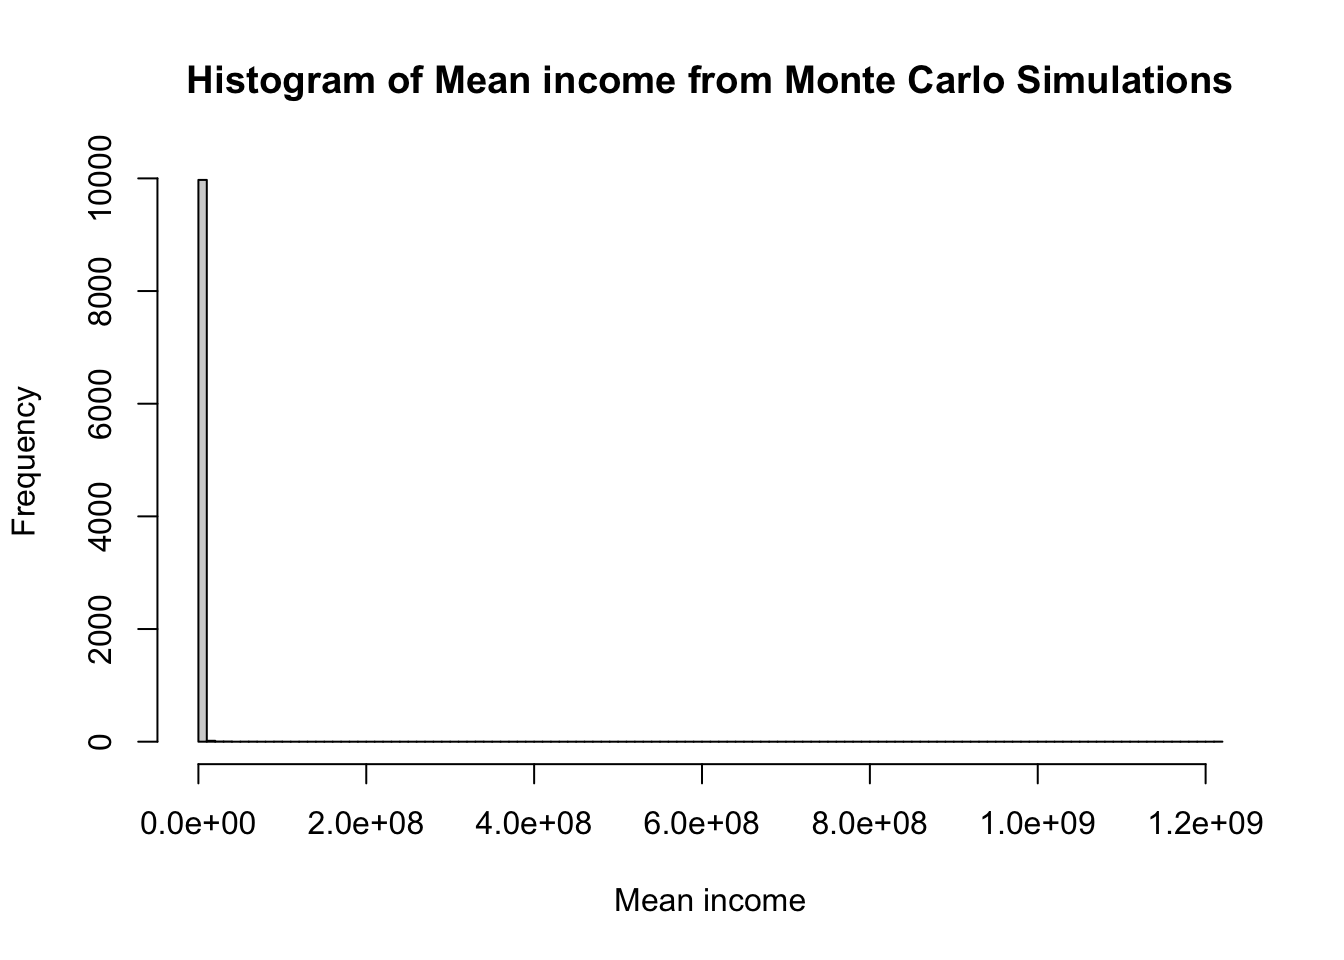
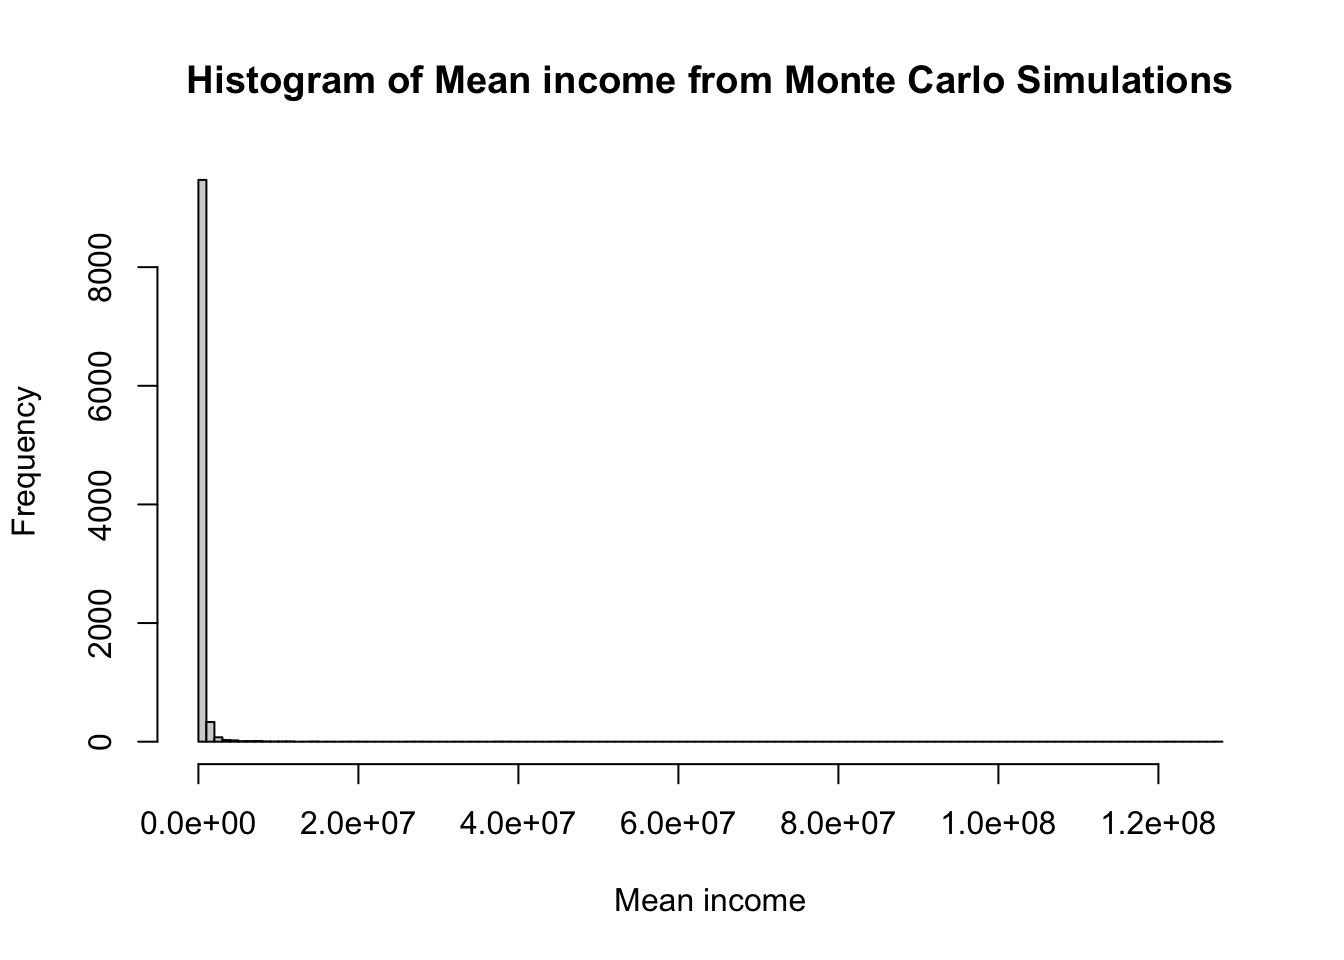
212241

diff --git a/Education technology/Presentation/skillpresent-speaker.html b/Education technology/Presentation/skillpresent-speaker.html
@@ -180,12 +180,7 @@
 </section>
 <section class="slide level2">
 
-<div class="quarto-figure quarto-figure-center">
-<figure>
 <p><img data-src="images/puzzle.png"></p>
-<figcaption>A generic image taken from google images</figcaption>
-</figure>
-</div>
 </section>
 <section id="requirements-for-the-solution" class="slide level2">
 <h2>Requirements for the solution</h2>
@@ -220,7 +215,6 @@
 <li><p>Intellectual or Cognitive skill</p></li>
 <li><p>Psychomotor or Procedural skill</p></li>
 <li><p>Communication skill</p></li>
-<li><p>Team skill</p></li>
 </ul>
 </section>
 <section id="intellectual-skills-needed-to-solve-the-puzzle" class="slide level2">
@@ -242,8 +236,8 @@
 <li><p><strong>Attention to Detail</strong></p></li>
 </ul>
 </section>
-<section id="teaching-reasoning" class="slide level2">
-<h2><strong>Teaching reasoning</strong></h2>
+<section id="how-to-teach-this" class="slide level2">
+<h2><strong>How to teach this?</strong></h2>
 <p>Key concept is to activate prior knowledge</p>
 <ul>
 <li><p>One minute preceptor (OMP)</p></li>
@@ -276,8 +270,13 @@
 <li><p><strong>P</strong>lan management</p></li>
 </ul>
 </section>
-<section id="teaching-psychomotor-skills" class="slide level2">
-<h2><strong>Teaching Psychomotor Skills</strong></h2>
+<section>
+<section id="solving-the-puzzle-physically" class="title-slide slide level1 center">
+<h1>Solving the puzzle physically</h1>
+
+</section>
+<section id="how-to-teach-this-1" class="slide level2">
+<h2><strong>How to teach this?</strong></h2>
 <h3 id="peytons-four-step-approach-cognitive-integrative-autonomous-phases"><strong>Peyton’s Four-Step Approach – Cognitive, Integrative, Autonomous Phases</strong></h3>
 <table class="caption-top">
 <thead>
@@ -308,7 +307,12 @@
 
 <aside><div>
 <p><a href="https://www.knotes.co.in/education%20technology/skill">Click here</a> for more information on Peyton’s technique</p>
-</div></aside></section>
+</div></aside></section></section>
+<section>
+<section id="if-the-puzzle-was-alive.." class="title-slide slide level1 center">
+<h1>If the puzzle was alive..</h1>
+
+</section>
 <section id="spikes-a-method-for-communication" class="slide level2">
 <h2><strong>SPIKES-A Method for communication</strong></h2>
 <ul>
@@ -320,8 +324,8 @@
 <li><p><strong>S</strong>trategy and Summary</p></li>
 </ul>
 </section>
-<section id="another-way-of-looking" class="slide level2">
-<h2>Another way of looking</h2>
+<section id="another-way-of-looking-at-skills" class="slide level2">
+<h2>Another way of looking at skills</h2>
 <table class="caption-top">
 <thead>
 <tr class="header">
@@ -392,7 +396,7 @@
 <p><a href="https://www.knotes.co.in">Back to knotes</a></p>
 
 
-</section>
+</section></section>
     </div>
   <div class="quarto-auto-generated-content" style="display: none;">
 <p><img src="images/tie-01.png" class="slide-logo"></p>

diff --git a/docs/Education technology/Presentation/skillpresent.html b/docs/Education technology/Presentation/skillpresent.html
@@ -180,12 +180,7 @@
 </section>
 <section class="slide level2">
 
-<div class="quarto-figure quarto-figure-center">
-<figure>
 <p><img data-src="images/puzzle.png"></p>
-<figcaption>A generic image taken from google images</figcaption>
-</figure>
-</div>
 </section>
 <section id="requirements-for-the-solution" class="slide level2">
 <h2>Requirements for the solution</h2>
@@ -220,7 +215,6 @@
 <li><p>Intellectual or Cognitive skill</p></li>
 <li><p>Psychomotor or Procedural skill</p></li>
 <li><p>Communication skill</p></li>
-<li><p>Team skill</p></li>
 </ul>
 </section>
 <section id="intellectual-skills-needed-to-solve-the-puzzle" class="slide level2">
@@ -242,8 +236,8 @@
 <li><p><strong>Attention to Detail</strong></p></li>
 </ul>
 </section>
-<section id="teaching-reasoning" class="slide level2">
-<h2><strong>Teaching reasoning</strong></h2>
+<section id="how-to-teach-this" class="slide level2">
+<h2><strong>How to teach this?</strong></h2>
 <p>Key concept is to activate prior knowledge</p>
 <ul>
 <li><p>One minute preceptor (OMP)</p></li>
@@ -276,8 +270,13 @@
 <li><p><strong>P</strong>lan management</p></li>
 </ul>
 </section>
-<section id="teaching-psychomotor-skills" class="slide level2">
-<h2><strong>Teaching Psychomotor Skills</strong></h2>
+<section>
+<section id="solving-the-puzzle-physically" class="title-slide slide level1 center">
+<h1>Solving the puzzle physically</h1>
+
+</section>
+<section id="how-to-teach-this-1" class="slide level2">
+<h2><strong>How to teach this?</strong></h2>
 <h3 id="peytons-four-step-approach-cognitive-integrative-autonomous-phases"><strong>Peyton’s Four-Step Approach – Cognitive, Integrative, Autonomous Phases</strong></h3>
 <table class="caption-top">
 <thead>
@@ -308,7 +307,12 @@
 
 <aside><div>
 <p><a href="https://www.knotes.co.in/education%20technology/skill">Click here</a> for more information on Peyton’s technique</p>
-</div></aside></section>
+</div></aside></section></section>
+<section>
+<section id="if-the-puzzle-was-alive.." class="title-slide slide level1 center">
+<h1>If the puzzle was alive..</h1>
+
+</section>
 <section id="spikes-a-method-for-communication" class="slide level2">
 <h2><strong>SPIKES-A Method for communication</strong></h2>
 <ul>
@@ -320,8 +324,8 @@
 <li><p><strong>S</strong>trategy and Summary</p></li>
 </ul>
 </section>
-<section id="another-way-of-looking" class="slide level2">
-<h2>Another way of looking</h2>
+<section id="another-way-of-looking-at-skills" class="slide level2">
+<h2>Another way of looking at skills</h2>
 <table class="caption-top">
 <thead>
 <tr class="header">
@@ -392,7 +396,7 @@
 <p><a href="https://www.knotes.co.in">Back to knotes</a></p>
 
 
-</section>
+</section></section>
     </div>
   <div class="quarto-auto-generated-content" style="display: none;">
 <p><img src="images/tie-01.png" class="slide-logo"></p>

diff --git a/docs/posts/montecarlo.html b/docs/posts/montecarlo.html
@@ -6,7 +6,7 @@
 
 <meta name="viewport" content="width=device-width, initial-scale=1.0, user-scalable=yes">
 
-<meta name="dcterms.date" content="2024-11-28">
+<meta name="dcterms.date" content="2024-12-02">
 
 <title>Income distribution – knotes</title>
 <style>
@@ -1839,7 +1839,7 @@ window.Quarto = {
     <div>
     <div class="quarto-title-meta-heading">Published</div>
     <div class="quarto-title-meta-contents">
-      <p class="date">November 28, 2024</p>
+      <p class="date">December 2, 2024</p>
     </div>
   </div>
   
@@ -1977,7 +1977,7 @@ Income distribution is not normal
 </details>
 <div class="cell-output cell-output-stdout">
 <pre><code>     Min.   1st Qu.    Median      Mean   3rd Qu.      Max. 
-2.008e+05 2.957e+05 3.444e+05 6.853e+05 4.395e+05 1.219e+09 </code></pre>
+   207169    297140    344171    583327    443406 127869801 </code></pre>
 </div>
 <details open="" class="code-fold">
 <summary>Code</summary>
@@ -1985,7 +1985,7 @@ Income distribution is not normal
 </details>
 <div class="cell-output cell-output-stdout">
 <pre><code>   Min. 1st Qu.  Median    Mean 3rd Qu.    Max. 
-  61817   64071   64492   64505   64941   67445 </code></pre>
+  62019   64069   64502   64503   64928   67560 </code></pre>
 </div>
 <details open="" class="code-fold">
 <summary>Code</summary>
@@ -1993,7 +1993,7 @@ Income distribution is not normal
 </details>
 <div class="cell-output cell-output-stdout">
 <pre><code>     Min.   1st Qu.    Median      Mean   3rd Qu.      Max. 
-8.973e+05 3.318e+06 5.711e+06 3.922e+07 1.197e+07 1.219e+11 </code></pre>
+9.415e+05 3.369e+06 5.675e+06 2.880e+07 1.232e+07 1.276e+10 </code></pre>
 </div>
 </div>
 </section>

diff --git a/docs/posts.html b/docs/posts.html
@@ -1918,9 +1918,9 @@ Categories
 <span class="listing-categories">technology, ev</span>
 </td>
 </tr>
-<tr data-index="1" data-categories="TW9udGUlMjBDYXJsbyUyMHNpbXVsYXRpb24lMkNlY29ub21pY3M=" data-listing-date-sort="1732732200000" data-listing-file-modified-sort="1716203287606" data-listing-date-modified-sort="NaN" data-listing-reading-time-sort="8" data-listing-word-count-sort="1412" data-listing-title-sort="Income distribution" data-listing-filename-sort="montecarlo.qmd">
+<tr data-index="1" data-categories="TW9udGUlMjBDYXJsbyUyMHNpbXVsYXRpb24lMkNlY29ub21pY3M=" data-listing-date-sort="1733077800000" data-listing-file-modified-sort="1716203287606" data-listing-date-modified-sort="NaN" data-listing-reading-time-sort="8" data-listing-word-count-sort="1412" data-listing-title-sort="Income distribution" data-listing-filename-sort="montecarlo.qmd">
 <td>
-<span class="listing-date">Nov 28, 2024</span>
+<span class="listing-date">Dec 2, 2024</span>
 </td>
 <td>
 <a href="./posts/montecarlo.html" class="title listing-title">Income distribution</a>

diff --git a/docs/Catallactics/Personal/pricing.html b/docs/Catallactics/Personal/pricing.html
@@ -6,7 +6,7 @@
 
 <meta name="viewport" content="width=device-width, initial-scale=1.0, user-scalable=yes">
 
-<meta name="dcterms.date" content="2024-11-28">
+<meta name="dcterms.date" content="2024-12-02">
 
 <title>Hedge pricing – knotes</title>
 <style>
@@ -1795,7 +1795,7 @@ cookieconsent.run({
     <div>
     <div class="quarto-title-meta-heading">Published</div>
     <div class="quarto-title-meta-contents">
-      <p class="date">November 28, 2024</p>
+      <p class="date">December 2, 2024</p>
     </div>
   </div>
   
@@ -1841,7 +1841,7 @@ cookieconsent.run({
 <span id="cb2-3"><a href="#cb2-3" aria-hidden="true" tabindex="-1"></a>closing_price</span></code><button title="Copy to Clipboard" class="code-copy-button"><i class="bi"></i></button></pre></div>
 </details>
 <div class="cell-output cell-output-stdout">
-<pre><code>[1] 24274.9</code></pre>
+<pre><code>[1] 24131.1</code></pre>
 </div>
 </div>
 </section>

diff --git a/docs/Biomedical/Research Methodology/wrangling.html b/docs/Biomedical/Research Methodology/wrangling.html
@@ -3274,9 +3274,9 @@ Record
    &lt;int&gt; &lt;int&gt; &lt;fctr&gt;
 1:     1     0  child
 2:     2     0  child
-3:     3     1  child
-4:     4     1  child
-5:     5     0  child
+3:     3     0  child
+4:     4     0  child
+5:     5     1  child
 6:     6     1  child</code></pre>
 </div>
 </div>
@@ -3297,9 +3297,9 @@ Record
    &lt;int&gt; &lt;fctr&gt; &lt;fctr&gt;
 1:     1  child   &lt;NA&gt;
 2:     2  child   &lt;NA&gt;
-3:     3   &lt;NA&gt;  child
-4:     4   &lt;NA&gt;  child
-5:     5  child   &lt;NA&gt;
+3:     3  child   &lt;NA&gt;
+4:     4  child   &lt;NA&gt;
+5:     5   &lt;NA&gt;  child
 6:     6   &lt;NA&gt;  child</code></pre>
 </div>
 </div>

diff --git a/docs/Catallactics/Personal/IMA SSS.html b/docs/Catallactics/Personal/IMA SSS.html
@@ -6,7 +6,7 @@
 
 <meta name="viewport" content="width=device-width, initial-scale=1.0, user-scalable=yes">
 
-<meta name="dcterms.date" content="2024-11-28">
+<meta name="dcterms.date" content="2024-12-02">
 
 <title>IMA SSS – knotes</title>
 <style>
@@ -1764,7 +1764,7 @@ cookieconsent.run({
     <div>
     <div class="quarto-title-meta-heading">Published</div>
     <div class="quarto-title-meta-contents">
-      <p class="date">November 28, 2024</p>
+      <p class="date">December 2, 2024</p>
     </div>
   </div>
   
